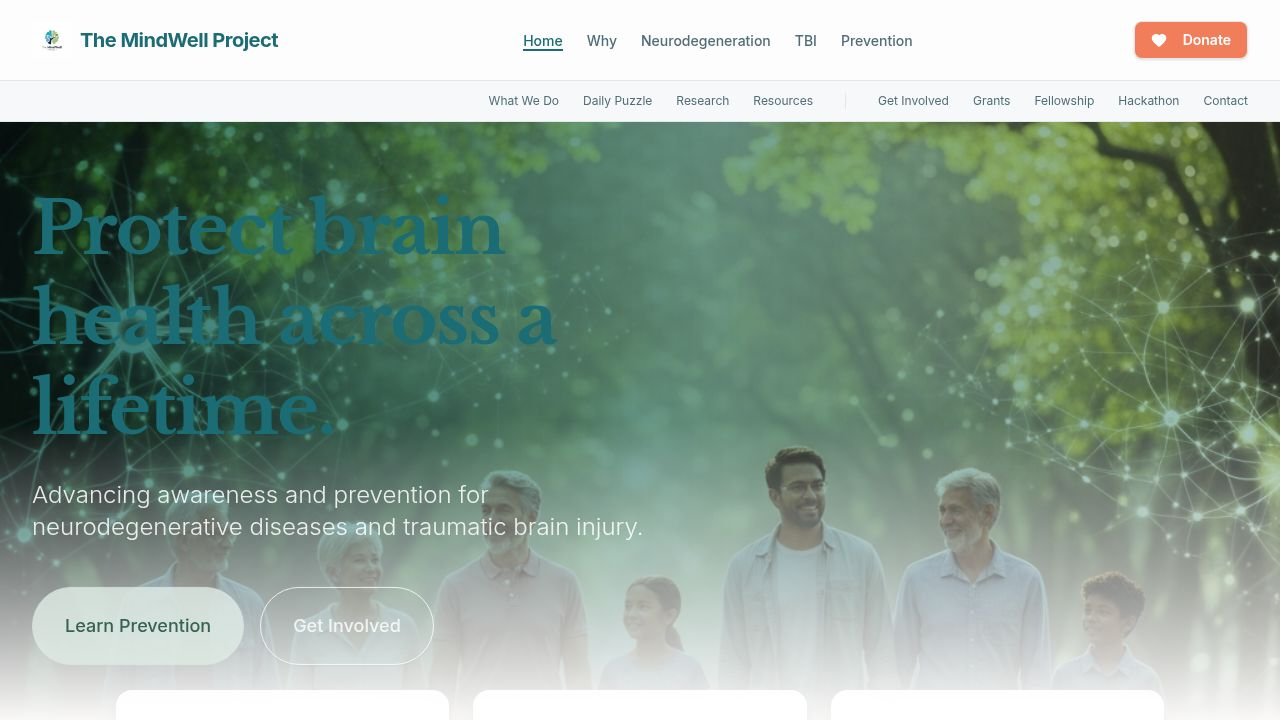
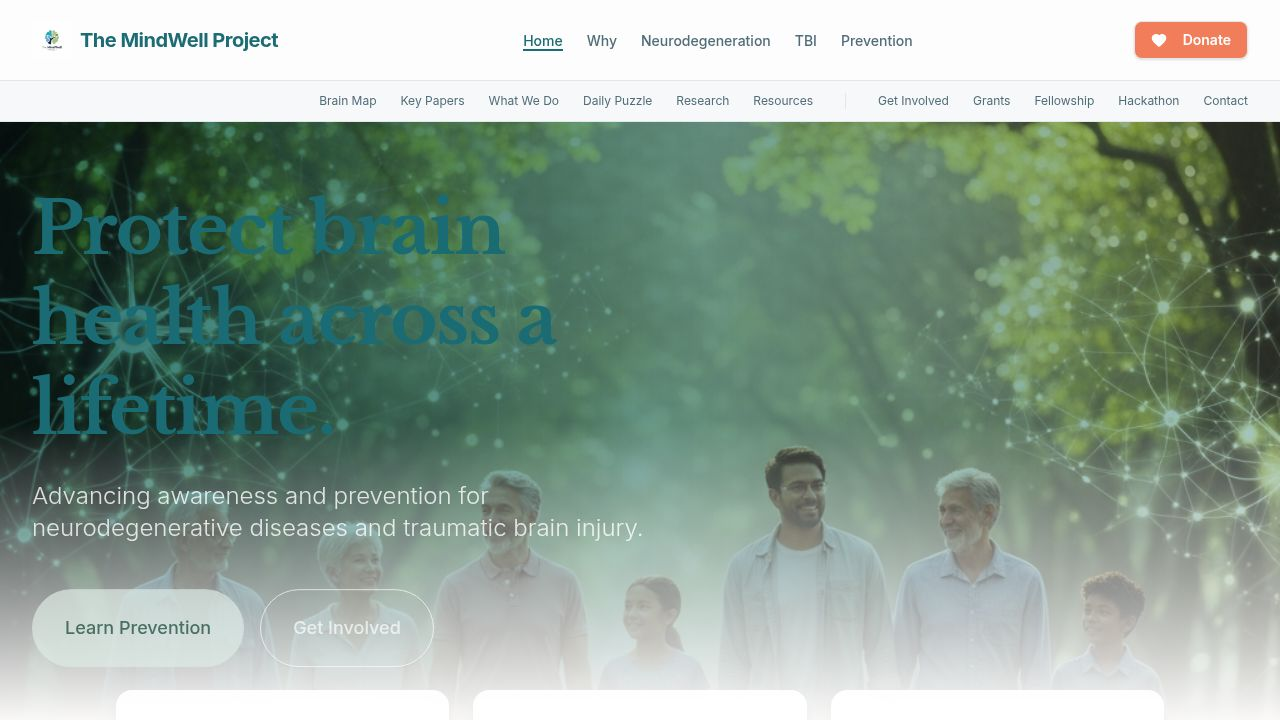
Add interactive brain map for exploring neurological regions
Introduces a new page route '/brain-map' displaying an interactive SVG brain map. Users can hover over regions for tooltips, click for detailed information in a side panel, and use search/reset functionalities. Includes responsiveness and accessibility features.

Replit-Commit-Author: Agent
Replit-Commit-Session-Id: 49425687-8a65-4076-b27f-56f1245097ab
Replit-Commit-Checkpoint-Type: full_checkpoint
Replit-Commit-Event-Id: 5615f121-17eb-4f36-8082-f1881cf75da2
Replit-Commit-Screenshot-Url: https://storage.googleapis.com/screenshot-production-us-central1/a3e1de06-8adc-4176-ad82-5d59fc07003b/49425687-8a65-4076-b27f-56f1245097ab/PFtFSXX
Replit-Helium-Checkpoint-Created: true

diff --git a/client/src/pages/BrainMap.tsx b/client/src/pages/BrainMap.tsx
@@ -1,0 +1,248 @@
+import { useState, useMemo } from "react";
+import { Button } from "@/components/ui/button";
+import { Card, CardContent, CardHeader, CardTitle } from "@/components/ui/card";
+import {
+  Select,
+  SelectContent,
+  SelectItem,
+  SelectTrigger,
+  SelectValue,
+} from "@/components/ui/select";
+import { cn } from "@/lib/utils";
+
+interface BrainRegion {
+  id: string;
+  name: string;
+  path: string;
+  functions: string[];
+  whyItMatters: string;
+}
+
+const regions: BrainRegion[] = [
+  {
+    id: "frontal",
+    name: "Frontal Lobe",
+    path: "M 120,200 C 120,100 250,80 300,100 C 300,100 300,280 300,300 C 200,300 120,280 120,200 Z",
+    functions: ["Executive function", "Decision making", "Personality", "Motor control"],
+    whyItMatters: "High risk for TBI impacts; crucial for personality and planning.",
+  },
+  {
+    id: "parietal",
+    name: "Parietal Lobe",
+    path: "M 300,100 C 400,80 500,120 520,200 C 520,250 450,280 400,300 C 350,300 300,300 300,100 Z",
+    functions: ["Sensory integration", "Spatial awareness", "Navigation"],
+    whyItMatters: "Integrates touch and limb position; often impacted in falls.",
+  },
+  {
+    id: "temporal",
+    name: "Temporal Lobe",
+    path: "M 180,310 C 250,310 380,310 420,310 C 420,380 350,420 300,430 C 220,420 180,380 180,310 Z",
+    functions: ["Language processing", "Memory encoding", "Auditory processing"],
+    whyItMatters: "Primary site for early-stage Alzheimer's degeneration.",
+  },
+  {
+    id: "occipital",
+    name: "Occipital Lobe",
+    path: "M 520,200 C 550,250 550,320 500,380 C 450,350 420,310 420,310 C 420,310 520,200 520,200 Z",
+    functions: ["Visual processing", "Color recognition", "Object perception"],
+    whyItMatters: "Essential for interpreting the visual world.",
+  },
+  {
+    id: "cerebellum",
+    name: "Cerebellum",
+    path: "M 420,400 C 480,400 520,450 500,500 C 450,520 400,500 400,450 C 400,420 420,400 420,400 Z",
+    functions: ["Balance", "Coordination", "Fine motor skills"],
+    whyItMatters: "Frequently affected by Parkinson's and stroke, causing tremors.",
+  },
+  {
+    id: "brainstem",
+    name: "Brainstem",
+    path: "M 320,440 L 350,440 L 360,550 L 310,550 Z",
+    functions: ["Breathing", "Heart rate", "Sleep cycles"],
+    whyItMatters: "Critical for life-sustaining functions; vulnerable in severe TBI.",
+  },
+  {
+    id: "hippocampus",
+    name: "Hippocampus",
+    path: "M 280,320 Q 300,340 320,320 Q 320,360 300,370 Q 280,360 280,320 Z",
+    functions: ["Long-term memory", "Spatial navigation"],
+    whyItMatters: "First region affected in Alzheimer's disease.",
+  },
+  {
+    id: "amygdala",
+    name: "Amygdala",
+    path: "M 260,340 A 10,10 0 1,0 280,340 A 10,10 0 1,0 260,340 Z",
+    functions: ["Emotional regulation", "Fear response"],
+    whyItMatters: "Central to anxiety and emotional memory.",
+  },
+  {
+    id: "thalamus",
+    name: "Thalamus",
+    path: "M 280,240 A 20,20 0 1,0 320,240 A 20,20 0 1,0 280,240 Z",
+    functions: ["Relay center for sensory info", "Consciousness"],
+    whyItMatters: "Acts as the brain's switchboard; damage can cause widespread cognitive issues.",
+  },
+  {
+    id: "basalganglia",
+    name: "Basal Ganglia",
+    path: "M 250,220 Q 300,180 350,220 Q 350,280 300,300 Q 250,280 250,220 Z",
+    functions: ["Movement habit formation", "Reward system"],
+    whyItMatters: "Dopamine loss here is the hallmark of Parkinson's Disease.",
+  },
+];
+
+export default function BrainMap() {
+  const [selectedId, setSelectedId] = useState<string | null>(null);
+  const [hoveredId, setHoveredId] = useState<string | null>(null);
+
+  const selectedRegion = useMemo(
+    () => regions.find((r) => r.id === selectedId),
+    [selectedId]
+  );
+
+  return (
+    <div className="container-width py-12 space-y-8">
+      <div className="text-center space-y-4">
+        <h1 className="text-4xl font-serif font-bold text-primary">Interactive Brain Map</h1>
+        <p className="text-muted-foreground max-w-2xl mx-auto">
+          Explore the regions of the brain and learn about their functions and clinical significance.
+        </p>
+      </div>
+
+      <div className="flex flex-col md:flex-row gap-8 items-start">
+        <div className="flex-1 space-y-6 w-full">
+          <div className="flex justify-between items-center gap-4">
+            <Select onValueChange={setSelectedId} value={selectedId || undefined}>
+              <SelectTrigger className="w-[240px]">
+                <SelectValue placeholder="Jump to a region..." />
+              </SelectTrigger>
+              <SelectContent>
+                {regions.map((r) => (
+                  <SelectItem key={r.id} value={r.id}>
+                    {r.name}
+                  </SelectItem>
+                ))}
+              </SelectContent>
+            </Select>
+            <Button variant="outline" onClick={() => setSelectedId(null)}>Reset View</Button>
+          </div>
+
+          <div className="relative aspect-square border rounded-2xl bg-white shadow-inner flex items-center justify-center overflow-hidden p-4">
+            <svg
+              viewBox="0 0 600 600"
+              className="w-full h-full max-h-[500px]"
+              aria-label="Interactive anatomical brain map"
+            >
+              <defs>
+                <filter id="shadow">
+                  <feDropShadow dx="0" dy="2" stdDeviation="3" floodOpacity="0.2" />
+                </filter>
+              </defs>
+              
+              {regions.map((region) => (
+                <path
+                  key={region.id}
+                  d={region.path}
+                  className={cn(
+                    "cursor-pointer transition-all duration-300 outline-none stroke-white stroke-[2px]",
+                    selectedId === region.id ? "fill-primary stroke-primary-foreground stroke-[3px]" : 
+                    hoveredId === region.id ? "fill-accent/60" : "fill-muted hover:fill-muted-foreground/30"
+                  )}
+                  onMouseEnter={() => setHoveredId(region.id)}
+                  onMouseLeave={() => setHoveredId(null)}
+                  onClick={() => setSelectedId(region.id)}
+                  onKeyDown={(e) => e.key === "Enter" && setSelectedId(region.id)}
+                  tabIndex={0}
+                  aria-label={region.name}
+                  role="button"
+                />
+              ))}
+              
+              {hoveredId && !selectedId && (
+                <g pointerEvents="none">
+                  <rect
+                    x="10"
+                    y="10"
+                    width="140"
+                    height="32"
+                    rx="6"
+                    className="fill-primary/90"
+                  />
+                  <text
+                    x="80"
+                    y="31"
+                    textAnchor="middle"
+                    className="fill-white text-[14px] font-bold"
+                  >
+                    {regions.find(r => r.id === hoveredId)?.name}
+                  </text>
+                </g>
+              )}
+            </svg>
+          </div>
+          
+          <div className="mt-8">
+            <h3 className="font-bold mb-4 text-primary font-serif text-lg">Region Directory</h3>
+            <ul className="grid grid-cols-2 sm:grid-cols-3 gap-3 text-sm">
+              {regions.map(r => (
+                <li key={r.id}>
+                  <button 
+                    onClick={() => setSelectedId(r.id)}
+                    className={cn(
+                      "w-full text-left p-2 rounded border transition-colors",
+                      selectedId === r.id ? "bg-primary text-white border-primary" : "hover:bg-muted"
+                    )}
+                  >
+                    {r.name}
+                  </button>
+                </li>
+              ))}
+            </ul>
+          </div>
+        </div>
+
+        <div className="w-full md:w-96 shrink-0">
+          <Card className={cn("h-full border-t-8 transition-all duration-500", selectedRegion ? "border-t-primary shadow-xl translate-y-0 opacity-100" : "border-t-muted opacity-80")}>
+            <CardHeader>
+              <CardTitle className="font-serif text-2xl">
+                {selectedRegion ? selectedRegion.name : "Select a Region"}
+              </CardTitle>
+            </CardHeader>
+            <CardContent className="space-y-6">
+              {selectedRegion ? (
+                <>
+                  <div className="space-y-3">
+                    <h4 className="text-xs font-bold uppercase tracking-widest text-primary">Core Functions</h4>
+                    <ul className="space-y-2">
+                      {selectedRegion.functions.map((f, i) => (
+                        <li key={i} className="flex items-start gap-2 text-sm">
+                          <span className="text-accent mt-1">•</span>
+                          {f}
+                        </li>
+                      ))}
+                    </ul>
+                  </div>
+                  <div className="space-y-3 pt-4 border-t">
+                    <h4 className="text-xs font-bold uppercase tracking-widest text-primary">Why It Matters</h4>
+                    <p className="text-sm leading-relaxed text-muted-foreground font-medium italic">
+                      "{selectedRegion.whyItMatters}"
+                    </p>
+                  </div>
+                </>
+              ) : (
+                <div className="py-12 text-center space-y-4">
+                  <div className="w-12 h-12 bg-muted rounded-full mx-auto flex items-center justify-center">
+                    <span className="text-2xl text-muted-foreground">?</span>
+                  </div>
+                  <p className="text-sm text-muted-foreground italic max-w-[200px] mx-auto">
+                    Click on the brain map to reveal structural insights and clinical significance.
+                  </p>
+                </div>
+              )}
+            </CardContent>
+          </Card>
+        </div>
+      </div>
+    </div>
+  );
+}

diff --git a/client/src/App.tsx b/client/src/App.tsx
@@ -22,6 +22,7 @@ import Hackathon from "@/pages/Hackathon";
 import Resources from "@/pages/Resources";
 import About from "@/pages/About";
 import KeyPapers from "@/pages/KeyPapers";
+import BrainMap from "@/pages/BrainMap";
 
 function Router() {
   return (
@@ -44,6 +45,7 @@ function Router() {
         <Route path="/resources" component={Resources} />
         <Route path="/about" component={About} />
         <Route path="/key-papers" component={KeyPapers} />
+        <Route path="/brain-map" component={BrainMap} />
         
         <Route component={NotFound} />
       </Switch>

diff --git a/client/src/components/layout/Navbar.tsx b/client/src/components/layout/Navbar.tsx
@@ -12,6 +12,7 @@ const navItems = [
   { label: "Neurodegeneration", href: "/neurodegeneration" },
   { label: "TBI", href: "/tbi" },
   { label: "Prevention", href: "/prevention" },
+  { label: "Brain Map", href: "/brain-map" },
   { label: "Key Papers", href: "/key-papers" },
   { label: "What We Do", href: "/what-we-do" },
   { label: "Daily Puzzle", href: "/daily-puzzle" },
